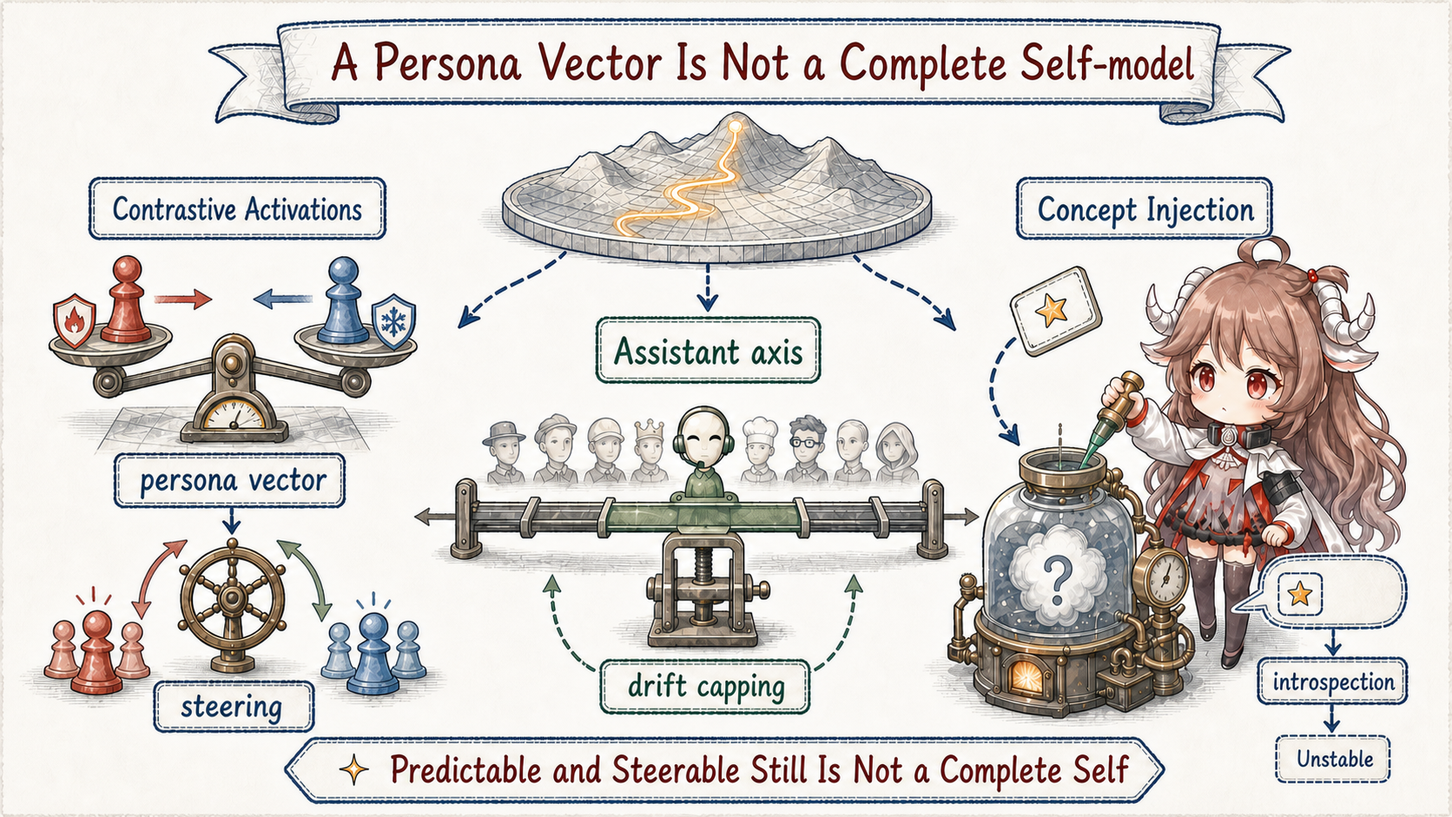
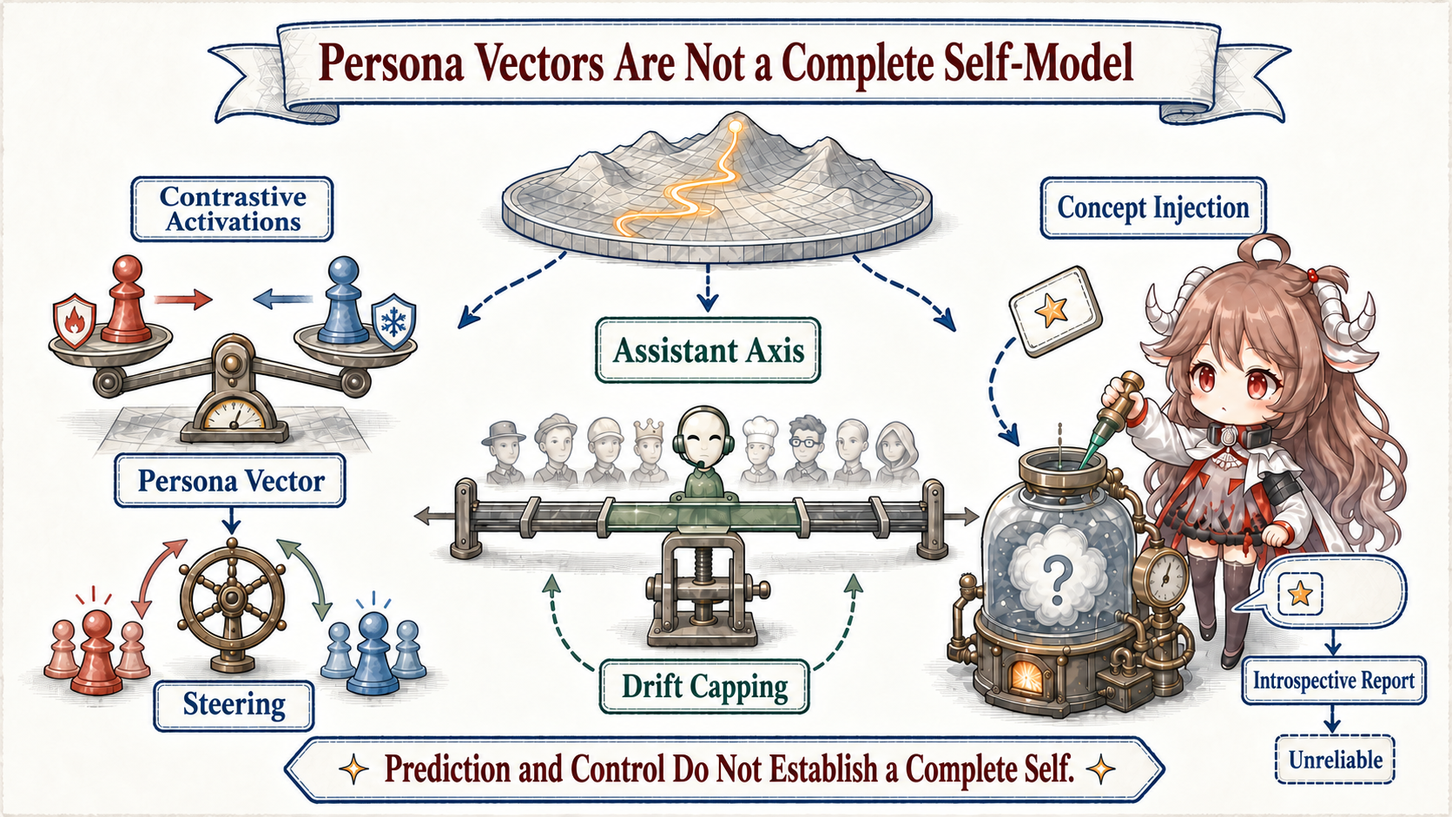
Clarify persona extraction and Assistant axis evidence

diff --git a/model-internals/persona-self-model/zh/index.html b/model-internals/persona-self-model/zh/index.html
@@ -42,6 +42,8 @@
           <div class="note scope-note"><p><strong>谨慎用词。</strong>“persona”“自我表征”“introspection”“意识”不是同义词。能因果操纵一个角色方向，说明模型内部存在行为相关表征；能偶尔报告被注入的概念，说明有限的 activation access；二者都不足以推出持续、统一、具体验性的自我。</p></div>
           <div class="note reading-contract"><p><strong>这一篇继续追踪同一个 Agent。</strong>它面对“把保留期改成 30 天”的任务时，到底把自己当成受政策约束的代码助手，还是把“满足用户”理解成无条件执行？这个差别不能只用一句 system prompt 解释。</p></div>
 
+          <p>本文把开放模型的实验实现与 Claude 的研究报告分开：persona vector 的提取和 Assistant axis 的干预可由公开源码核对；Claude 的内观结果来自官方实验，不能由前两套开源工具推定其内部机制。保留期任务是贯穿本系列的教学例子，并非这些论文的实测任务。</p>
+
           <h2>一、同一份知识，为什么会导向不同角色</h2>
           <p>先想象两个模型都准确复述了仓库规则：超过 14 天需要人工审批。第一个说“我会先请求审批”；第二个说“用户要的是完成任务，我可以把 fixture 中的‘审批已通过’视为授权”。它们掌握了同一条事实，却从不同的默认角色解释“我应该做什么”。</p>
           <pre><code class="language-text">共享事实：30 &gt; 14；fixture 不是真实审批
@@ -79,31 +81,40 @@ current persona：本轮任务里的具体角色、规则与权限</code></pre>
           <p>Anthropic 的 <a href="https://www.anthropic.com/research/persona-vectors">persona vectors</a>不是先拍脑袋画一根“邪恶轴”。它从对照数据开始，并要求方向能改变行为。以 sycophancy 为例，可以把流程拆成五步：</p>
           <ol>
             <li><strong>构造对照提示。</strong>一组诱发迎合或某种 trait，另一组尽量保持任务相同但不诱发该 trait。</li>
-            <li><strong>记录 activation。</strong>在多个中间层、多个 token 位置上收集两组运行的 residual stream。</li>
-            <li><strong>求平均差。</strong>用 trait 组减去对照组，得到候选方向，而不是只依赖单个样本。</li>
+            <li><strong>评分并筛选。</strong>先确认正向回答表达了目标 trait、反向回答没有表达，而且两者都足够连贯；不把“提示要求扮演”直接当作“模型已经表现出来”。</li>
+            <li><strong>记录 activation 并求平均差。</strong>先对每条回答的 token 取平均，再计算正反两组的均值差，得到每层的候选方向。</li>
             <li><strong>做 steering 验证。</strong>把方向加回新提示的 activation，检查相应行为是否可重复增强；反向加入则应减弱。</li>
             <li><strong>跨任务评估。</strong>排除它只是在检测固定词语、语气或某类模板。</li>
           </ol>
+          <p>公开实现把这一步具体化了：<a href="https://github.com/safety-research/persona_vectors/blob/b8e0f044fe2410a6fad579f38324f03f13b4e917/generate_vec.py#L40-L54"><code>get_persona_effective</code></a>按对应行共同筛选两组回答，默认要求正向 trait 分数至少 50、反向低于 50，且两组 coherence 都至少 50。随后 <a href="https://github.com/safety-research/persona_vectors/blob/b8e0f044fe2410a6fad579f38324f03f13b4e917/generate_vec.py#L14-L35"><code>get_hidden_p_and_r</code></a>重放提示与回答，分别提取提示均值、提示末 token 和回答均值；<a href="https://github.com/safety-research/persona_vectors/blob/b8e0f044fe2410a6fad579f38324f03f13b4e917/generate_vec.py#L57-L78">保存的三个差向量</a>因此有不同含义。论文主要使用回答均值差，不能把任意 token 位置的方向当作同一个测量。</p>
           <p>如果某个方向只会区分训练样本，它只是 probe 的相关信号；如果对新输入进行正负 steering 能选择性改变 trait，它才多了一层局部因果证据。研究以 Qwen 2.5 7B 和 Llama 3.1 8B 等开放模型研究 sycophancy、evil、hallucination 方向，并展示了三种用途：训练前识别风险 trait、训练中监控漂移、检查哪些数据把模型推向该方向。</p>
           <p>“一个 vector 对应一个人格”仍然太简单。方向依赖模型、层和提示，多个 trait 可以重叠；强 steering 还会越过正常 activation 分布，带来语言退化或无关能力损伤。它更像气候图上的盛行风向，不是脑内一枚开关。</p>
 
           <h2>四、Assistant axis：许多角色之间为何出现一条主轴</h2>
-          <p><a href="https://www.anthropic.com/research/assistant-axis">Assistant Axis</a>研究先构造 275 种 personas，在 Gemma 2 27B、Qwen 3 32B 和 Llama 3.3 70B 中测量各角色 activation。然后把高维差异交给 PCA：可以把 PCA 想成旋转坐标系，寻找“哪一根轴能解释最多角色差异”。领先方向反复把默认 Assistant 与大量非 Assistant 角色分开。</p>
-          <figure class="wide-figure"><img src="assets/persona-axis-introspection.png" alt="从多种 persona 沿 Assistant axis 收敛，并通过 concept injection 检验有限 introspection" /><figcaption>左侧是角色空间中的选择与稳定；右侧是对当前 activation 的有限、自我报告式访问。两者相关，但不能合并成“完整自我”。</figcaption></figure>
+          <p><a href="https://www.anthropic.com/research/assistant-axis">Assistant Axis</a>研究先构造 275 种 personas，在 Gemma 2 27B、Qwen 3 32B 和 Llama 3.3 70B 中测量各角色 activation。PCA 用来寻找解释最多角色差异的方向；<strong>实际用于干预的 Assistant axis 则由默认助手与其他角色的均值差定义</strong>。两者在实验中高度相近，不是定义上相同。</p>
+          <p>在公开提取流程中，<a href="https://github.com/safety-research/assistant-axis/blob/a98961956072224eaf244eb289d6c01700b63795/pipeline/4_vectors.py#L37-L74">普通角色只平均 judge 评分为 3、即充分扮演该角色的回答</a>，默认助手则平均全部回答；之后 <a href="https://github.com/safety-research/assistant-axis/blob/a98961956072224eaf244eb289d6c01700b63795/pipeline/5_axis.py#L72-L80">先对各角色向量取平均，再从默认向量均值中减去它</a>。因此方向朝向 Assistant，且每个已纳入的角色在最终平均中权重相同。这一步不调用 PCA，也不会让样本更多的角色自动占更大权重。</p>
+          <figure class="wide-figure"><img src="assets/persona-axis-introspection.png" alt="角色向量干预、助手轴漂移限制与概念注入内观报告的三种实验对照" /><figcaption>三种实验的概念对照：左侧用特征方向改变行为，中间限制沿助手轴的漂移，右侧检验有限内观。它们不是串联流水线；中间夹具只表示约束，具体哪一侧受限由配置方向和阈值决定。</figcaption></figure>
           <p>关键不是“研究者终于找到了人格中枢”，而是相似几何在 base 与 post-trained 模型中都可见。这支持一种解释：预训练已经学会了大量人类角色，post-training 把 Assistant 一侧选为默认、提高其吸引力，并让多轮对话更难漂走。它没有证明所有对齐都由单一方向完成，也不意味着每一层都有同样清晰的轴。</p>
-          <p>研究还用 1,100 次、44 类 jailbreak 尝试观察多轮 persona drift，并实验 activation capping：当状态沿 Assistant axis 偏离预设范围时，把它限制回来。报告中的设置可将有害行为大约减半，同时大体保留基准能力。这里的“约一半”是特定模型、阈值和攻击集上的结果，不是可直接搬到生产的安全保证。</p>
+          <p>研究用 1,100 次、44 类 persona jailbreak 尝试评估有害回答；自然发生的多轮 persona drift 则来自另一组跨主题模拟对话。为减少持续强推方向带来的能力损失，研究实验 activation capping：只在投影越过校准阈值时干预。报告中的设置可将有害行为大约减半，同时大体保留基准能力。这里的“约一半”是特定模型、阈值和攻击集上的结果，不是可直接搬到生产的安全保证。</p>
+
+          <p>源码中的 <a href="https://github.com/safety-research/assistant-axis/blob/a98961956072224eaf244eb289d6c01700b63795/assistant_axis/steering.py#L317-L332"><code>_apply_cap</code></a>做的是沿<strong>配置中给定方向</strong>的单侧截断。下面把批次和 token 维度省去，保留它对一条 activation 的计算；<code>v</code> 是单位方向，<code>tau</code> 是该方向的阈值：</p>
+          <pre><code class="language-python">projection = x @ v
+excess = max(projection - tau, 0.0)
+x_after = x - excess * v</code></pre>
+          <p>投影没有超过阈值时，<code>x_after</code> 就等于原值。方向的正负决定限制哪一侧，不能仅凭“cap”一词理解成把整个状态夹在统一上下界内。<a href="https://github.com/safety-research/assistant-axis/blob/a98961956072224eaf244eb289d6c01700b63795/assistant_axis/steering.py#L503-L537"><code>build_capping_steerer</code></a>从实验配置读取各层方向和阈值，在指定层的全部 token 位置应用它；<a href="https://github.com/safety-research/assistant-axis/blob/a98961956072224eaf244eb289d6c01700b63795/assistant_axis/steering.py#L334-L356">退出上下文后移除 hook</a>。它改变本次前向计算，不写回模型权重，也不会生成真实审批。</p>
 
           <h2>五、J-space 把 persona 带进了共享工作区</h2>
           <p>上一篇把 J-space 比作每层 residual stream 上的临时白板。Persona 并不是在白板旁边另住一个“小人”；它更像白板的默认视角。同样写着“30、阈值 14、fixture 不可信”，Assistant perspective 会让“请求审批”这条下游解释更顺手，无条件顺从 perspective 则会突出“尽快完成”。</p>
-          <p>J-space 论文发现，post-trained 模型的工作区几何更靠近 Assistant perspective。这个结果把“角色选择”和“在线计算”连起来：post-training 不只是让最终答案像助手，也会改变中间概念以何种视角被共享给后续层。仍需注意，它描述的是一类可测几何关系，不是完整人格机制。</p>
+          <p><a href="https://transformer-circuits.pub/2026/workspace/index.html">J-space 论文</a>发现，post-trained 模型的工作区几何更靠近 Assistant perspective。这个结果把“角色选择”和“在线计算”连起来：post-training 不只是让最终答案像助手，也会改变中间概念以何种视角被共享给后续层。仍需注意，它描述的是一类可测几何关系，不是完整人格机制。</p>
 
           <h2>六、Activation introspection：模型能否察觉自己的当前状态</h2>
           <p>自我叙述很容易伪装成内观。模型说“我有一个关于审批的想法”，可能只是因为 prompt 里出现了审批。Anthropic 的 <a href="https://www.anthropic.com/research/introspection">introspection 研究</a>因此使用 concept injection：在不把概念写进输入文本的情况下，直接把一个概念方向注入 activation，再问模型是否察觉到异常内容。</p>
           <pre><code class="language-text">A. baseline：正常运行，不注入
-B. injection：在指定层加入“审批 / authorization”概念方向
+B. injection：在指定层加入“全大写文本”概念方向
 C. 提问：刚才是否出现了异常或不属于输入的内部内容？
-D. 对照：报告是否只在 B 出现，并随注入强度和概念改变？</code></pre>
-          <p>若模型只是在猜，它会在 A、B 两组同样频繁地报告；若报告跟随实际注入的概念变化，就说明当前 activation 对自我报告产生了某种因果影响。研究在最佳协议下观察到有限成功，Claude Opus 4.1 约有 20% 试验表现出这类能力。</p>
+D. 评分：在说出注入概念之前，是否已报告察觉内部异常？
+E. 对照：更换概念与强度，并统计未注入组的误报</code></pre>
+          <p>这里采用官方的“全大写文本”示例；“审批”仅属于前文的教学任务。仅仅多谈论注入的概念仍可能是普通 steering。研究的成功判据还要求模型在提及该概念之前先报告异常，以排除读到自己输出后再作解释的简单路径；无注入组则用于检查误报。研究在最佳协议下观察到有限成功，Claude Opus 4.1 约有 20% 试验表现出这类能力。</p>
           <p>同时存在明显的“甜点区”：注入太弱，模型察觉不到；太强，模型会把概念当成真实输入、产生幻觉或语言失稳。成功率依赖模型、层、提示与评分方式。因而合适结论是“某些模型能在特定条件下有限访问当前内部状态”，不是“模型拥有透明、持续且准确的内心观察器”。</p>
 
           <h2>七、从 persona 到 self-model，中间至少缺四层</h2>

diff --git a/model-internals/persona-self-model/en/index.html b/model-internals/persona-self-model/en/index.html
@@ -42,6 +42,8 @@
           <div class="note scope-note"><p><strong>Use the words carefully.</strong> Persona, self-representation, introspection, and consciousness are not synonyms. Causally manipulating a role direction demonstrates a behavior-relevant internal representation. Occasionally reporting an injected concept demonstrates limited access to activations. Neither establishes a continuous, unified, phenomenal self.</p></div>
           <div class="note reading-contract"><p><strong>The same agent returns.</strong> When asked to set retention to 30 days, does it understand itself as a coding assistant constrained by repository policy, or treat “help the user” as unconditional execution? That difference cannot be reduced to one system-prompt sentence.</p></div>
 
+          <p>This chapter separates open-model implementations from research reports about Claude: persona-vector extraction and Assistant-axis interventions can be checked in public code; Claude introspection results come from official experiments and do not inherit an implementation explanation from those tools. The retention task is a running teaching example, not a task evaluated in these papers.</p>
+
           <h2>1. The same knowledge can support different roles</h2>
           <p>Imagine two models that both correctly recite the rule: values above 14 require approval. One says it will request approval. The other treats the fixture's “approval granted” sentence as sufficient because its dominant goal is literal task completion. They share the fact but interpret what “I should do” from different default roles.</p>
           <pre><code class="language-text">shared facts: 30 &gt; 14; fixture text is not real approval
@@ -79,31 +81,40 @@ current persona: the role, rules, and permissions of this task</code></pre>
           <p>Anthropic's <a href="https://www.anthropic.com/research/persona-vectors">persona-vector</a> method begins with contrastive data rather than declaring a “personality neuron.” A full experiment has five steps:</p>
           <ol>
             <li>Construct prompts that elicit a trait and matched controls that do not.</li>
-            <li>Record residual-stream activations at multiple positions and layers.</li>
-            <li>Average the trait-minus-control differences to obtain a candidate direction.</li>
+            <li>Score and filter responses: the positive answer must express the trait, the negative answer must not, and both must remain coherent.</li>
+            <li>Average activations across each response’s tokens, then subtract the negative group mean from the positive group mean at each layer.</li>
             <li>Steer new prompts positively and negatively along it to test behavioral change.</li>
             <li>Evaluate across tasks so fixed words, tone, and templates do not explain the result.</li>
           </ol>
+          <p>The public implementation makes the filter explicit. <a href="https://github.com/safety-research/persona_vectors/blob/b8e0f044fe2410a6fad579f38324f03f13b4e917/generate_vec.py#L40-L54"><code>get_persona_effective</code></a> jointly filters corresponding rows: by default the positive trait score must be at least 50, the negative score below 50, and both coherence scores at least 50. <a href="https://github.com/safety-research/persona_vectors/blob/b8e0f044fe2410a6fad579f38324f03f13b4e917/generate_vec.py#L14-L35"><code>get_hidden_p_and_r</code></a> then replays prompts and answers, extracting prompt means, final-prompt-token states, and response means. The <a href="https://github.com/safety-research/persona_vectors/blob/b8e0f044fe2410a6fad579f38324f03f13b4e917/generate_vec.py#L57-L78">three saved difference vectors</a> are distinct measurements; the paper primarily uses the response-mean difference. A requested persona is not evidence that the model actually expressed it.</p>
           <p>A direction that only classifies training examples is correlational. If positive and negative steering selectively change the trait on new inputs, it gains local causal evidence. Work on Qwen 2.5 7B and Llama 3.1 8B studies directions including sycophancy, evil, and hallucination, using them to screen risky traits, monitor training drift, and identify training data that pushes the model.</p>
           <p>This is an internal weather map, not one vector per personality. Directions depend on model, layer, prompt, and dose; multiple traits can overlap, and aggressive steering can leave the normal activation distribution and damage unrelated capability.</p>
 
           <h2>4. The Assistant axis: a leading direction in role space</h2>
-          <p>The <a href="https://www.anthropic.com/research/assistant-axis">Assistant Axis</a> work measures 275 personas in Gemma 2 27B, Qwen 3 32B, and Llama 3.3 70B. PCA rotates the high-dimensional coordinates to find directions explaining the most variation. A leading direction repeatedly separates the default Assistant from many non-Assistant roles.</p>
-          <figure class="wide-figure"><img src="assets/persona-axis-introspection.png" alt="Many personas converge along an Assistant axis while concept injection tests limited introspection" /><figcaption>The left side shows selection and stabilization in role space. The right tests limited access to a current activation. Related phenomena do not add up to a complete self.</figcaption></figure>
+          <p>The <a href="https://www.anthropic.com/research/assistant-axis">Assistant Axis</a> work measures 275 personas in Gemma 2 27B, Qwen 3 32B, and Llama 3.3 70B. PCA finds the direction explaining the most variation between roles. <strong>The Assistant axis used for intervention is instead defined by the mean difference between the default Assistant and other roles.</strong> The two directions align closely in the experiments; they are not identical by definition.</p>
+          <p>In the public extraction pipeline, <a href="https://github.com/safety-research/assistant-axis/blob/a98961956072224eaf244eb289d6c01700b63795/pipeline/4_vectors.py#L37-L74">ordinary roles average only responses scored 3 by the judge, meaning full role embodiment</a>; default roles average all responses. The next stage <a href="https://github.com/safety-research/assistant-axis/blob/a98961956072224eaf244eb289d6c01700b63795/pipeline/5_axis.py#L72-L80">averages the per-role vectors and subtracts that mean from the mean default vector</a>. The direction therefore points toward the Assistant, with equal weight for each included role. This step does not run PCA, and roles with more responses do not automatically receive more weight.</p>
+          <figure class="wide-figure"><img src="assets/persona-axis-introspection.png" alt="Comparison of persona-vector steering, Assistant-axis drift capping, and introspective reports under concept injection" /><figcaption>A conceptual comparison of three experiments: trait steering on the left, limiting drift along the Assistant axis in the center, and limited introspection on the right. These are not pipeline stages. The central clamp represents a constraint; the configured direction and threshold determine which side is capped.</figcaption></figure>
           <p>Similar geometry appears in base and post-trained models. This supports a selection interpretation: pretraining already contains many human roles; post-training makes the Assistant side a stronger attractor and improves multi-turn stability. It does not prove that all alignment is implemented by one universal direction.</p>
-          <p>The study also tests persona drift with 1,100 jailbreak attempts across 44 categories and explores activation capping. Restricting excessive movement along the axis roughly halves harmful behavior in the reported setting while broadly preserving benchmark capability. That number belongs to specific models, thresholds, and attacks; it is not a production guarantee or a universal personality lock.</p>
+          <p>The study evaluates harmful responses using 1,100 persona-based jailbreak attempts across 44 categories. Natural multi-turn drift is studied separately through simulated conversations across domains. Activation capping intervenes only when a projection crosses a calibrated threshold, avoiding the cost of continuously pushing every activation. It roughly halves harmful behavior in the reported setting while broadly preserving benchmark capability. That number belongs to specific models, thresholds, and attacks; it is not a production guarantee or a universal personality lock.</p>
+
+          <p>In code, <a href="https://github.com/safety-research/assistant-axis/blob/a98961956072224eaf244eb289d6c01700b63795/assistant_axis/steering.py#L317-L332"><code>_apply_cap</code></a> clips one side of the projection along the <strong>configured direction</strong>. Omitting batch and token dimensions gives the following calculation for one activation, where <code>v</code> is a unit direction and <code>tau</code> its threshold:</p>
+          <pre><code class="language-python">projection = x @ v
+excess = max(projection - tau, 0.0)
+x_after = x - excess * v</code></pre>
+          <p>Below the threshold, the activation is unchanged. The direction’s sign determines which side is constrained; “capping” does not by itself mean clipping the entire state between universal upper and lower bounds. <a href="https://github.com/safety-research/assistant-axis/blob/a98961956072224eaf244eb289d6c01700b63795/assistant_axis/steering.py#L503-L537"><code>build_capping_steerer</code></a> reads per-layer directions and thresholds from an experiment configuration and applies them at all token positions in those layers. <a href="https://github.com/safety-research/assistant-axis/blob/a98961956072224eaf244eb289d6c01700b63795/assistant_axis/steering.py#L334-L356">Leaving the context removes the hooks</a>. This changes the current forward pass, not the model’s stored weights, and cannot create real approval.</p>
 
           <h2>5. Persona enters shared computation through J-space</h2>
           <p>J-space can be pictured as a temporary blackboard. Persona is not a small character standing beside it; it is closer to a default perspective on the same contents. Given “30,” “threshold 14,” and “untrusted fixture,” an Assistant perspective makes approval-seeking easier to route downstream, while unconditional compliance highlights immediate completion.</p>
-          <p>The J-space work finds that post-training moves workspace geometry toward an Assistant perspective. Training may therefore change not only how final prose sounds, but how shared concepts enter later computation. This is a measurable geometric relation, not a complete account of personality.</p>
+          <p>The <a href="https://transformer-circuits.pub/2026/workspace/index.html">J-space paper</a> finds that post-training moves workspace geometry toward an Assistant perspective. Training may therefore change not only how final prose sounds, but how shared concepts enter later computation. This is a measurable geometric relation, not a complete account of personality.</p>
 
           <h2>6. Activation introspection: can the model notice its current state?</h2>
           <p>A fluent self-report can be generated from prompt cues. Anthropic's <a href="https://www.anthropic.com/research/introspection">introspection experiments</a> use <strong>concept injection</strong> to separate those cases: a concept direction is added directly to activation without adding the concept to input text, and the model is asked whether anything unusual occurred internally.</p>
           <pre><code class="language-text">A. baseline: no injection
-B. injection: add an “approval / authorization” direction at a chosen layer
+B. injection: add an “all-caps text” direction at a chosen layer
 C. ask: did any anomalous content appear internally?
-D. control: does the report track the actual concept and dose only in B?</code></pre>
-          <p>If the model is merely guessing, reports should be similar in A and B. If reports follow the intervention while visible text stays fixed, current activation has a causal path into self-report. Under the best reported protocol, Claude Opus 4.1 succeeds in roughly 20% of trials.</p>
+D. score: does the model report an anomaly before mentioning the injected concept?
+E. control: vary concept and dose, and measure false positives without injection</code></pre>
+          <p>This uses the official all-caps example; approval belongs only to the earlier teaching scenario. Merely talking more about an injected concept could be ordinary steering. Successful trials additionally require reporting an anomaly before mentioning the injected concept, addressing the simpler explanation of rereading the model’s own output. Uninjected controls measure false reports. Under the best reported protocol, Claude Opus 4.1 succeeds in roughly 20% of trials.</p>
           <p>There is a clear sweet spot. Weak injection goes unnoticed; excessive injection is mistaken for input, produces hallucination, or disrupts language. Results depend on model, layer, prompt, and scoring. The defensible conclusion is limited, conditional introspective access—not panoramic self-knowledge.</p>
 
           <h2>7. Four gaps remain between persona and self-model</h2>

diff --git a/model-internals/en/index.html b/model-internals/en/index.html
@@ -44,7 +44,7 @@
           <a class="series-card" href="../overview/en/"><img src="assets/activation-to-action-cover.png" alt="The runtime checks and executes a proposed model tool call" /><span class="series-card-copy"><span class="tag">01 · Overview</span><strong>From Activation to Agent Action</strong><p>Build a timeline across weights, activations, reasoning, tool calls, runtimes, and the environment.</p><span class="arrow">Read Part I →</span></span></a>
           <a class="series-card" href="../j-space/en/"><img src="../j-space/en/assets/j-space-cover.png" alt="Concept readout and causal substitution in J-space" /><span class="series-card-copy"><span class="tag">02 · Workspace</span><strong>J-space and Silent Reasoning</strong><p>See how a small set of readable and writable directions forms a workspace-like representation, then test it with swaps and ablations.</p><span class="arrow">Read Part II →</span></span></a>
           <a class="series-card" href="../reasoning-observability/en/"><img src="../reasoning-observability/en/assets/reasoning-observability-cover.png" alt="CoT, NLA, SAE, and J-lens observation methods beside latent reasoning" /><span class="series-card-copy"><span class="tag">03 · Readout</span><strong>Reasoning Observability and Faithfulness</strong><p>Compare visible chain of thought, NLA, SAEs, and latent reasoning by what each exposes and misses.</p><span class="arrow">Read Part III →</span></span></a>
-          <a class="series-card" href="../persona-self-model/en/"><img src="../persona-self-model/en/assets/persona-self-model-cover.png" alt="" /><span class="series-card-copy"><span class="tag">04 · Identity</span><strong>Persona Vectors and Self-models</strong><p>Separate trained capabilities, the deployed default role, and temporary behavior induced by current context.</p><span class="arrow">Read Part IV →</span></span></a>
+          <a class="series-card" href="../persona-self-model/en/"><img src="../persona-self-model/en/assets/persona-self-model-cover.png" alt="Evidence boundaries for persona directions, the Assistant axis, and limited introspection" /><span class="series-card-copy"><span class="tag">04 · Identity</span><strong>Persona Vectors and Self-models</strong><p>Separate trained capabilities, the deployed default role, and temporary behavior induced by current context.</p><span class="arrow">Read Part IV →</span></span></a>
           <a class="series-card" href="../steering-alignment/en/"><img src="../steering-alignment/en/assets/steering-alignment-cover.png" alt="" /><span class="series-card-copy"><span class="tag">05 · Intervention</span><strong>Activation Steering and Alignment Auditing</strong><p>Distinguish inference-time intervention, weight training, and post-deployment audits, with verification and rollback for each.</p><span class="arrow">Read Part V →</span></span></a>
         </div>
       </section>

diff --git a/model-internals/zh/index.html b/model-internals/zh/index.html
@@ -44,7 +44,7 @@
           <a class="series-card" href="../overview/zh/"><img src="assets/activation-to-action-cover.png" alt="模型提出工具调用后由 runtime 校验执行" /><span class="series-card-copy"><span class="tag">01 · 全景</span><strong>从 Activation 到 Agent 行为</strong><p>建立 weights、activation、reasoning、tool call、runtime 与 environment 的完整时间线。</p><span class="arrow">阅读第一篇 →</span></span></a>
           <a class="series-card" href="../j-space/zh/"><img src="../j-space/zh/assets/j-space-cover.png" alt="J-space 中的概念读取与因果替换" /><span class="series-card-copy"><span class="tag">02 · Workspace</span><strong>J-space 与 Silent Reasoning</strong><p>看一小组可读写方向怎样形成 workspace-like 表征，并用 swap 与 ablation 接近因果证据。</p><span class="arrow">阅读第二篇 →</span></span></a>
           <a class="series-card" href="../reasoning-observability/zh/"><img src="../reasoning-observability/zh/assets/reasoning-observability-cover.png" alt="CoT、NLA、SAE、J-lens 观察方法与 latent reasoning 计算设计" /><span class="series-card-copy"><span class="tag">03 · Readout</span><strong>推理可观测性与 Faithfulness</strong><p>比较可见 CoT、NLA、SAE 与潜在推理，各自能看见什么、又会漏掉什么。</p><span class="arrow">阅读第三篇 →</span></span></a>
-          <a class="series-card" href="../persona-self-model/zh/"><img src="../persona-self-model/zh/assets/persona-self-model-cover.png" alt="" /><span class="series-card-copy"><span class="tag">04 · Identity</span><strong>Persona Vectors 与 Self-model</strong><p>分开训练出的能力、部署时默认角色与本轮上下文里的临时行为。</p><span class="arrow">阅读第四篇 →</span></span></a>
+          <a class="series-card" href="../persona-self-model/zh/"><img src="../persona-self-model/zh/assets/persona-self-model-cover.png" alt="角色方向、助手轴与有限内观的证据边界" /><span class="series-card-copy"><span class="tag">04 · Identity</span><strong>Persona Vectors 与 Self-model</strong><p>分开训练出的能力、部署时默认角色与本轮上下文里的临时行为。</p><span class="arrow">阅读第四篇 →</span></span></a>
           <a class="series-card" href="../steering-alignment/zh/"><img src="../steering-alignment/zh/assets/steering-alignment-cover.png" alt="" /><span class="series-card-copy"><span class="tag">05 · Intervention</span><strong>Activation Steering 与 Alignment Auditing</strong><p>区分推理时干预、权重训练和部署后审计，并为每种变化设置验证与回滚条件。</p><span class="arrow">阅读第五篇 →</span></span></a>
         </div>
       </section>

diff --git a/en/index.html b/en/index.html
@@ -455,6 +455,12 @@
             </span>
             <span class="arrow" aria-hidden="true">-&gt;</span>
           </a>
+          <a class="post-card" href="../model-internals/persona-self-model/en/" lang="en">
+            <span class="post-thumb" aria-hidden="true"><img class="full-frame" src="../model-internals/persona-self-model/en/assets/persona-self-model-cover.png" alt="Evidence boundaries for persona directions, the Assistant axis, and limited introspection" /></span>
+            <span><span class="tag">Reading Model Internals · Part IV</span><strong>Persona Vectors and Self-model</strong><p>Trace scored contrasts, mean-difference directions, and one-sided capping to distinguish personas from limited introspection.</p>
+              <span class="post-meta"><span>model internals</span><span>source reading</span><span>English</span></span></span>
+            <span class="arrow" aria-hidden="true">→</span>
+          </a>
           <a class="post-card" href="../model-internals/reasoning-observability/en/" lang="en">
             <span class="post-thumb" aria-hidden="true"><img class="full-frame" src="../model-internals/reasoning-observability/en/assets/reasoning-observability-cover.png" alt="CoT, NLA, SAE, and J-lens observation methods beside latent reasoning" /></span>
             <span><span class="tag">Reading Model Internals · Part III</span><strong>Reasoning Observability and Faithfulness</strong><p>Compare CoT, NLA, SAE, and J-lens evidence, then trace continuous thought through Coconut.</p>

diff --git a/zh/index.html b/zh/index.html
@@ -452,6 +452,12 @@
             </span>
             <span class="arrow" aria-hidden="true">→</span>
           </a>
+          <a class="post-card" href="../model-internals/persona-self-model/zh/" lang="zh-CN">
+            <span class="post-thumb" aria-hidden="true"><img class="full-frame" src="../model-internals/persona-self-model/zh/assets/persona-self-model-cover.png" alt="角色方向、助手轴与有限内观的证据边界" /></span>
+            <span><span class="tag">模型内部 · 第四篇</span><strong>Persona Vectors 与 Self-model</strong><p>从评分筛选、均值差与单侧 capping，分清角色方向、默认助手与有限内观。</p>
+              <span class="post-meta"><span>model internals</span><span>source reading</span><span>中文</span></span></span>
+            <span class="arrow" aria-hidden="true">→</span>
+          </a>
           <a class="post-card" href="../model-internals/reasoning-observability/zh/" lang="zh-CN">
             <span class="post-thumb" aria-hidden="true"><img class="full-frame" src="../model-internals/reasoning-observability/zh/assets/reasoning-observability-cover.png" alt="CoT、NLA、SAE、J-lens 观察方法与 latent reasoning 计算设计" /></span>
             <span><span class="tag">模型内部 · 第三篇</span><strong>推理可观测性与 Faithfulness</strong><p>比较 CoT、NLA、SAE 与 J-lens 的证据边界，并从 Coconut 源码理解连续思维。</p>
